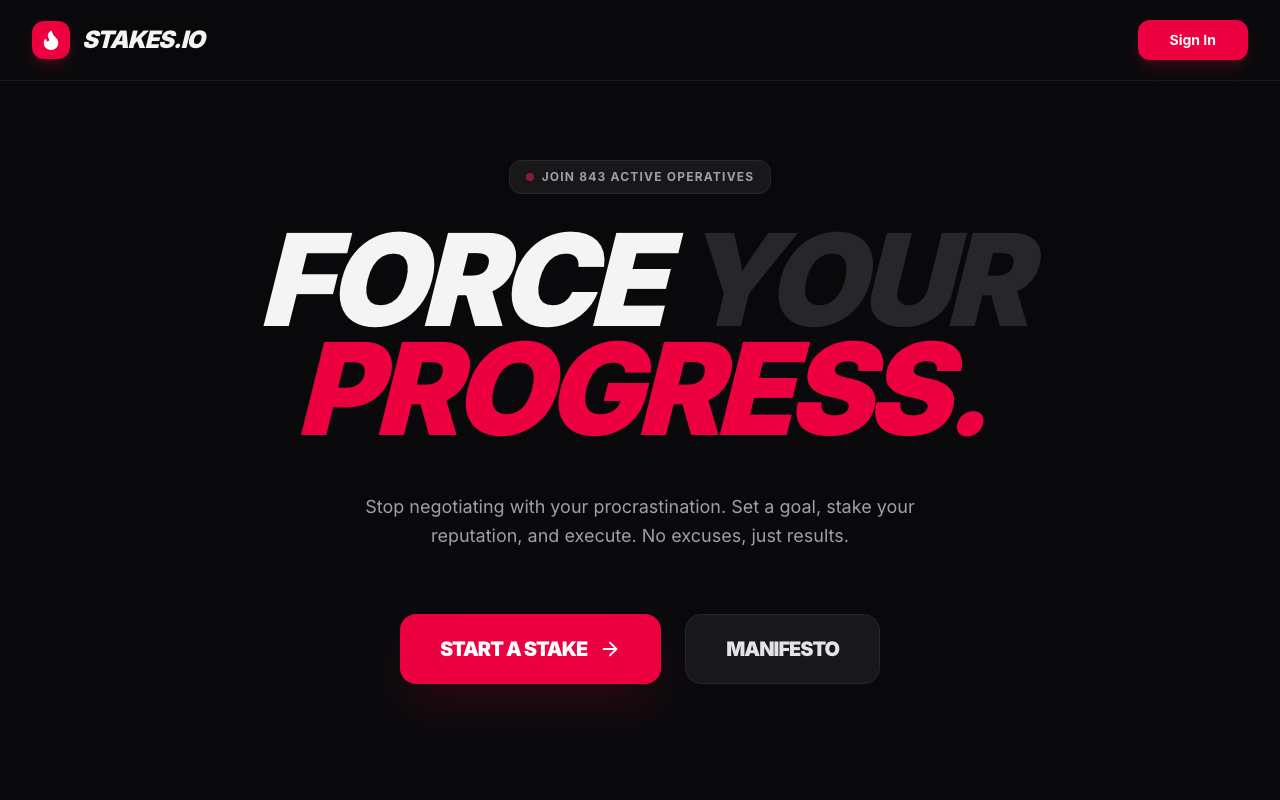
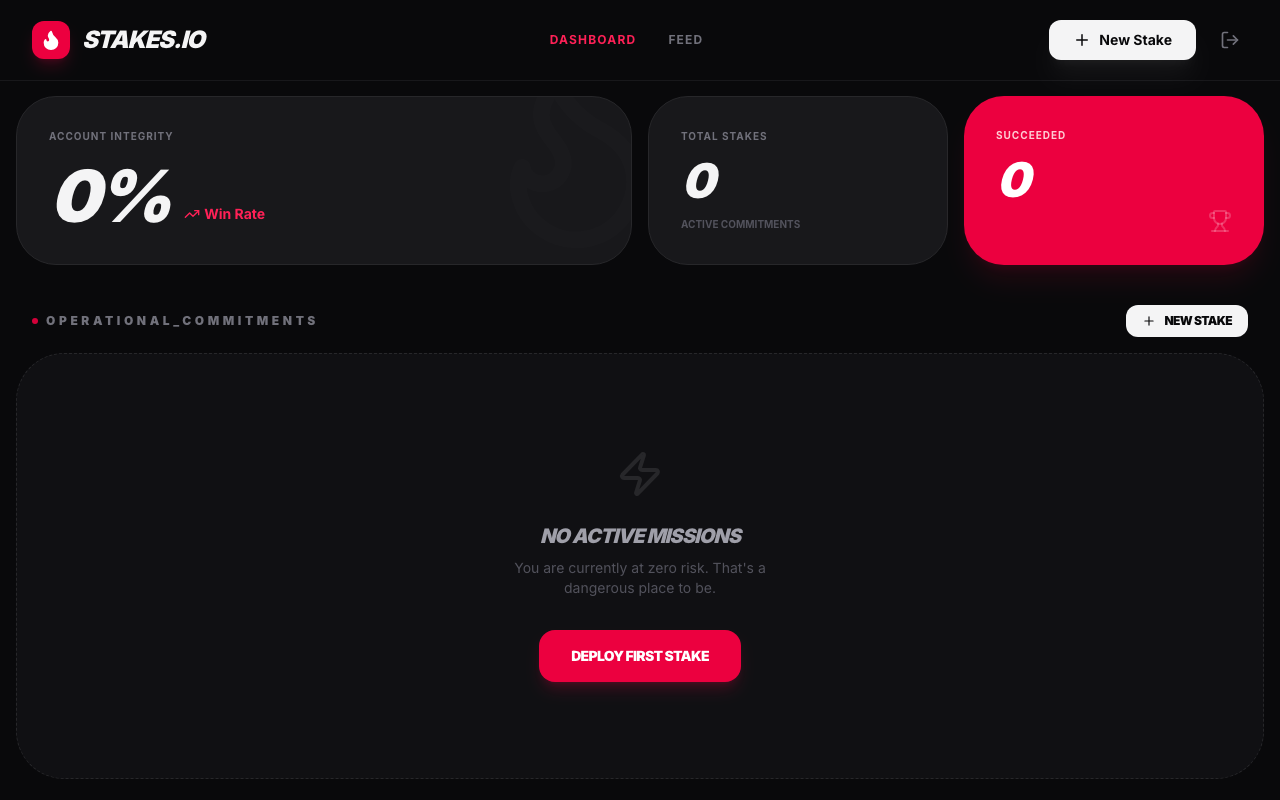
docs: update screenshot and add test credentials

diff --git a/README.md b/README.md
@@ -6,6 +6,12 @@ Live demo is available here: [https://stakes-io-598464211339.us-west2.run.app](h
 A high-stakes accountability platform that forces execution by putting your reputation (or money) on the line.
 
 
+
+## Test Credentials
+To try out the application, you can use the following test account:
+- **Email:** `[email redacted]`
+- **Password:** `p@$w0rd`
+
 ## Demo
 ![Dashboard Demo](assets/demo.png)
 